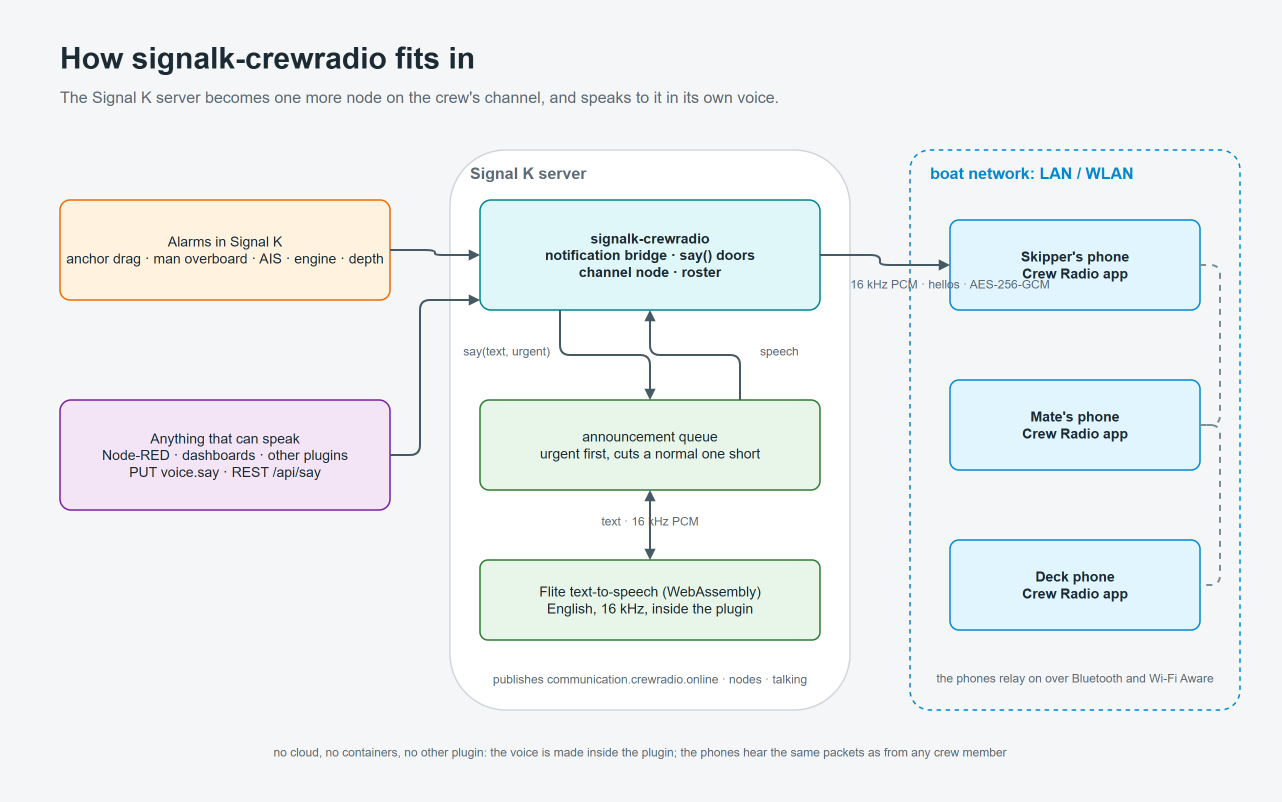
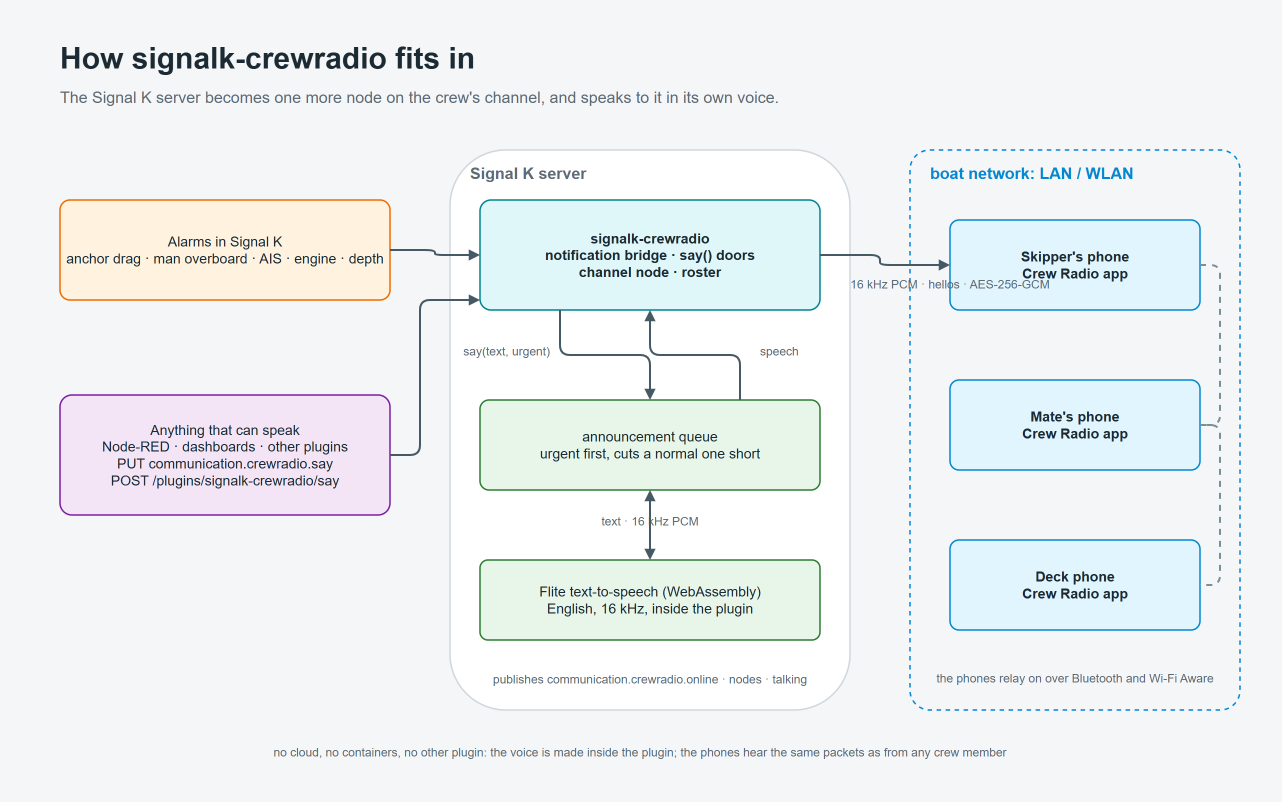
Plugin: review fixes (status reset on stop, leadMs validation, cache size on a concurrent miss, CLI option values, wording, drawings)

Changed region(s): [[0.0312, 0.5299, 0.312, 0.6546], [0.0624, 0.4676, 0.2808, 0.4988]]

diff --git a/sk-plugin/tools/cli.js b/sk-plugin/tools/cli.js
@@ -39,6 +39,7 @@ async function main() {
       break;
     }
     case "say": {
+      if (args.wav !== undefined && !(typeof args.wav === "string" && args.wav)) throw new Error("--wav needs a file name");
       const speech = args.wav ? wavSamples(readWav(args.wav)) : bytesToSamples(await speak(args.text));
       const parts = args.chime !== false ? [tones.chime(), speech, tones.silence(150)] : [speech, tones.silence(150)];
       const pcm = samplesToBytes(tones.concat(parts));
@@ -52,7 +53,7 @@ async function main() {
       break;
     }
     case "tts": {
-      if (!args.out) throw new Error("--out FILE.wav is required");
+      if (typeof args.out !== "string" || !args.out) throw new Error("--out FILE.wav is required");
       const pcm = await speak(args.text);
       fs.writeFileSync(args.out, wavFile(pcm, 16000));
       log(`wrote ${args.out}: ${(pcm.length / 32000).toFixed(1)} s`);
@@ -64,7 +65,7 @@ async function main() {
 }
 
 async function speak(text) {
-  if (!text) throw new Error("--text is required");
+  if (typeof text !== "string" || !text.trim()) throw new Error("--text is required");
   const voice = args.voice || "slt";
   if (!VOICES.includes(voice)) throw new Error(`--voice must be one of ${VOICES.join(", ")}`);
   const tts = new FliteTts({ voice, rate: args.rate !== undefined ? Number(args.rate) : 1 });

diff --git a/sk-plugin/test/tts.test.js b/sk-plugin/test/tts.test.js
@@ -77,3 +77,11 @@ test("parseWav reads a PCM16 mono file and refuses others", () => {
   const stereo = Buffer.from(wav); stereo.writeUInt16LE(2, 22);
   assert.throws(() => parseWav(stereo), /unexpected WAV/);
 });
+
+test("two concurrent misses for the same text count once in the cache size", async () => {
+  const tts = new FliteTts({ voice: "slt", tempDir, cacheBytes: 100_000 });
+  const [a, b] = await Promise.all([tts.synthesize("Same text twice."), tts.synthesize("Same text twice.")]);
+  assert.equal(a.length, b.length);
+  assert.equal(tts.cache.size, 1);
+  assert.equal(tts.cacheSize, a.length, "the replaced entry's bytes are taken back");
+});

diff --git a/sk-plugin/lib/node.js b/sk-plugin/lib/node.js
@@ -41,7 +41,7 @@ class ChannelNode extends EventEmitter {
     this.heartbeatMs = opts.heartbeatMs ?? 1000;
     this.silenceMs = opts.silenceMs ?? 4000;
     this.talkingMs = opts.talkingMs ?? 500;
-    this.leadMs = opts.leadMs ?? LEAD_MS;       // how far ahead of real time frames go out
+    this.leadMs = Number.isFinite(opts.leadMs) && opts.leadMs >= 0 ? opts.leadMs : LEAD_MS;   // how far ahead of real time frames go out
     this.repeatMs = opts.repeatMs ?? 0;         // > 0: send every audio packet a second time this much later (heals a lost copy)
     this.now = opts.now ?? Date.now;
     this.senderId = randomSenderId();

diff --git a/sk-plugin/lib/tts.js b/sk-plugin/lib/tts.js
@@ -111,6 +111,8 @@ class FliteTts {
 
   remember(key, pcm) {
     if (pcm.length > this.cacheBytes) return;
+    const previous = this.cache.get(key);           // two misses for the same text before either finished
+    if (previous) { this.cacheSize -= previous.length; this.cache.delete(key); }
     this.cache.set(key, pcm);
     this.cacheSize += pcm.length;
     while (this.cacheSize > this.cacheBytes && this.cache.size > 1) {

diff --git a/sk-plugin/index.js b/sk-plugin/index.js
@@ -184,6 +184,7 @@ module.exports = function crewRadioPlugin(app, deps = {}) {
     tts = null;
     if (typeof app.emitPropertyValue === "function") app.emitPropertyValue(API_PROPERTY, null);
     publishRoster([]);
+    lastStatus = "";                                   // a restart must set its first line even if it reads the same
     app.setPluginStatus("Stopped");
   };
 

diff --git a/sk-plugin/docs/make_screenshots.py b/sk-plugin/docs/make_screenshots.py
@@ -111,7 +111,7 @@ def phone(p, x, y, talker, peers, s=1.0):
 def announcement():
     n = [rect("bg", 0, 0, W, H, fill=BG, stroke="none", arc=0)]
     n.append(txt("title", "The boat speaks on the crew channel", 60, 44, 800, 44, 30, TEXT, bold=True, mono=False))
-    n.append(txt("sub", "A Signal K alarm, said by the boat's voice assistant, heard on every phone of the crew.", 60, 90, 760, 30, 16, MUTED, mono=False))
+    n.append(txt("sub", "A Signal K alarm, spoken by the plugin's own voice, heard on every phone of the crew.", 60, 90, 760, 30, 16, MUTED, mono=False))
     # the phone, at 0.8
     n += phone("ph", 820, 100, "SIRIUS", "3", 0.8)
     # the server side: a chain of cards
@@ -149,7 +149,7 @@ def how_it_fits():
 
     # left: where announcements come from
     n.append(box("alarms", "Alarms in Signal K\nanchor drag · man overboard · AIS · engine · depth", 60, 200, 330, 100, "#FFF3E0", "#EF6C00"))
-    n.append(box("say", "Anything that can speak\nNode-RED · dashboards · other plugins\nPUT voice.say · REST /api/say", 60, 400, 330, 110, "#F3E5F5", "#7B1FA2"))
+    n.append(box("say", "Anything that can speak\nNode-RED · dashboards · other plugins\nPUT communication.crewradio.say\nPOST /plugins/signalk-crewradio/say", 60, 395, 330, 120, "#F3E5F5", "#7B1FA2"))
 
     # middle: the server
     n.append(rect("srv", 450, 150, 400, 560, fill=LIGHT_CARD, stroke=LIGHT_LINE, arc=14, width=1.5))

diff --git a/sk-plugin/README.md b/sk-plugin/README.md
@@ -108,8 +108,8 @@ The same works as a PUT to `vessels.self.communication.crewradio.say` with a str
   to every phone the plugin has heard from directly. Access points send multicast at their lowest
   rate without acknowledgement, and phones lose a few percent of it even in the same cabin, which
   was audible as gaps; unicast is retried and rate-adapted, and the phones drop the copies they
-  get twice. Frames also leave 100 ms ahead of time so a late timer tick on the server never
-  makes a phone's queue run dry.
+  get twice. Frames also leave 100 ms ahead of time, which keeps a late timer tick on the server
+  (the usual 15 ms) from running a phone's queue dry; a longer stall is still audible.
 - **Bandwidth.** Speech goes out as PCM, 34 kB/s per copy while talking, nothing otherwise but one
   small hello a second; over a Bluetooth relay hop it is the same as a phone talking in PCM.
 - **Two nodes named alike** are fine; the phones list nodes by id.

diff --git a/CLAUDE.md b/CLAUDE.md
@@ -162,7 +162,8 @@ MainActivity -(bind)-> PttService -> PttEngine -> Transport (LanTransport | Blue
   byte for byte; `sk-plugin/test/vector.json` and the app's `CrossLanguageVectorTest` check the
   same packet, so change both when the wire changes.
 - `lib/tts.js` (`FliteTts`): one WASI instance per sentence (Flite's entry point is not
-  re-entrant), a WAV round trip through the plugin's data directory, a byte-bounded cache, units
+  re-entrant), a WAV round trip through `tts-tmp` in the plugin's data directory (the OS temp dir when the
+  server has no `getDataDirPath`), a byte-bounded cache, units
   and numbers spelled out, texts capped at 500 characters, synthesis serialised. `lib/queue.js`:
   normal announcements in order, urgent ones to the front, cutting a normal one short
   (`node.cancel()`). `index.js` exposes say() as a PUT handler on `communication.crewradio.say`,
